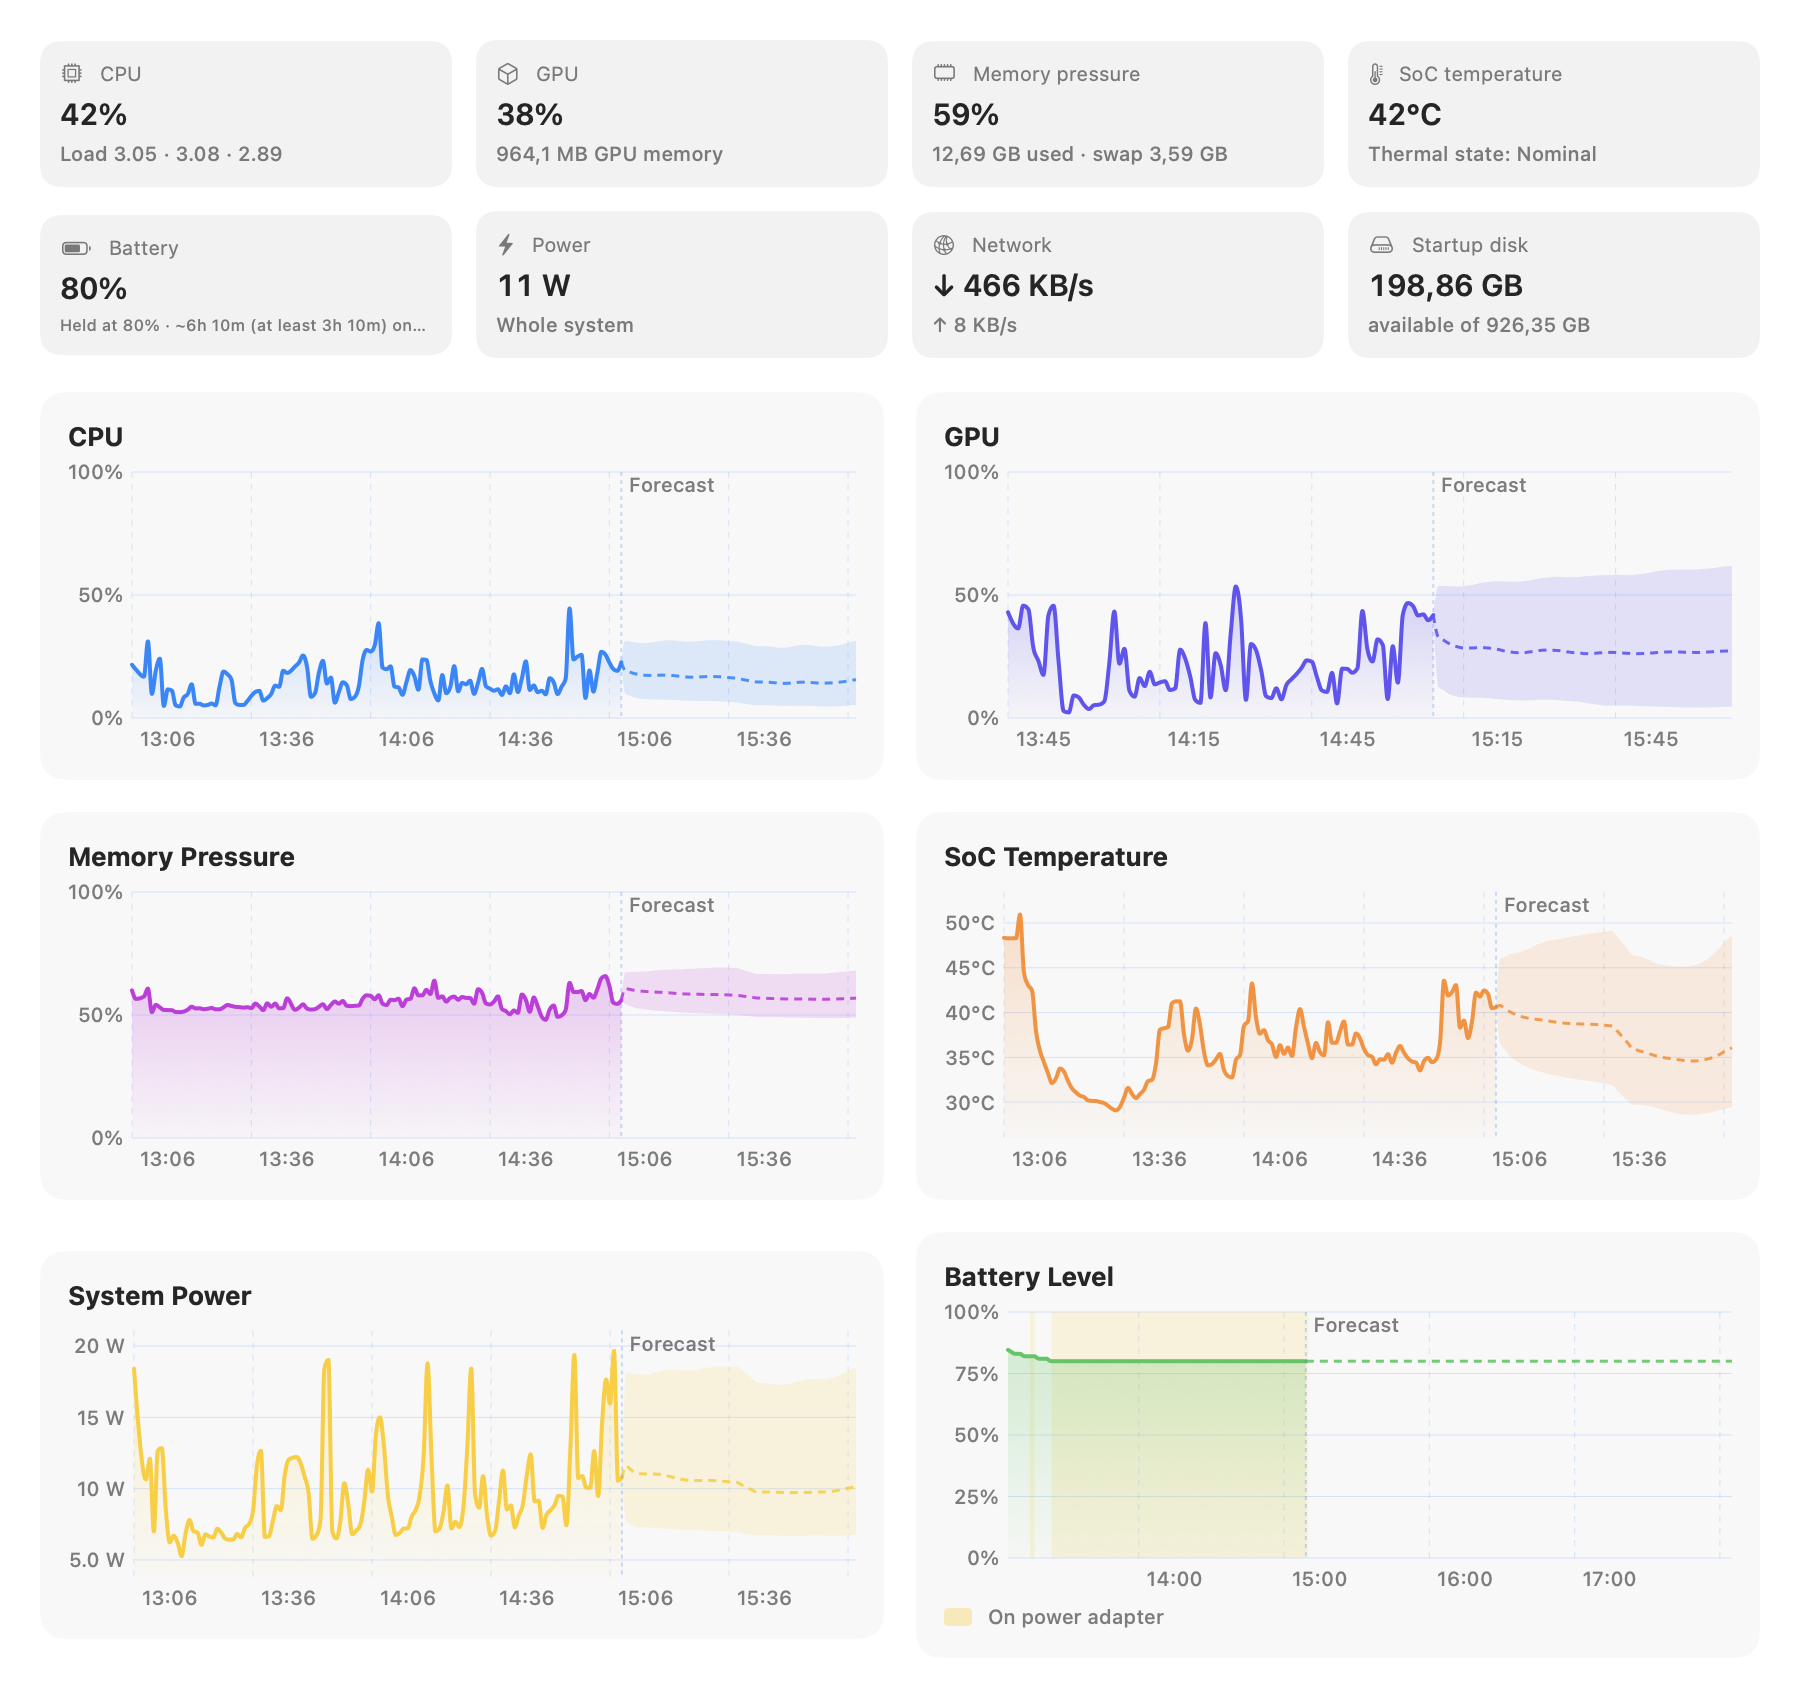
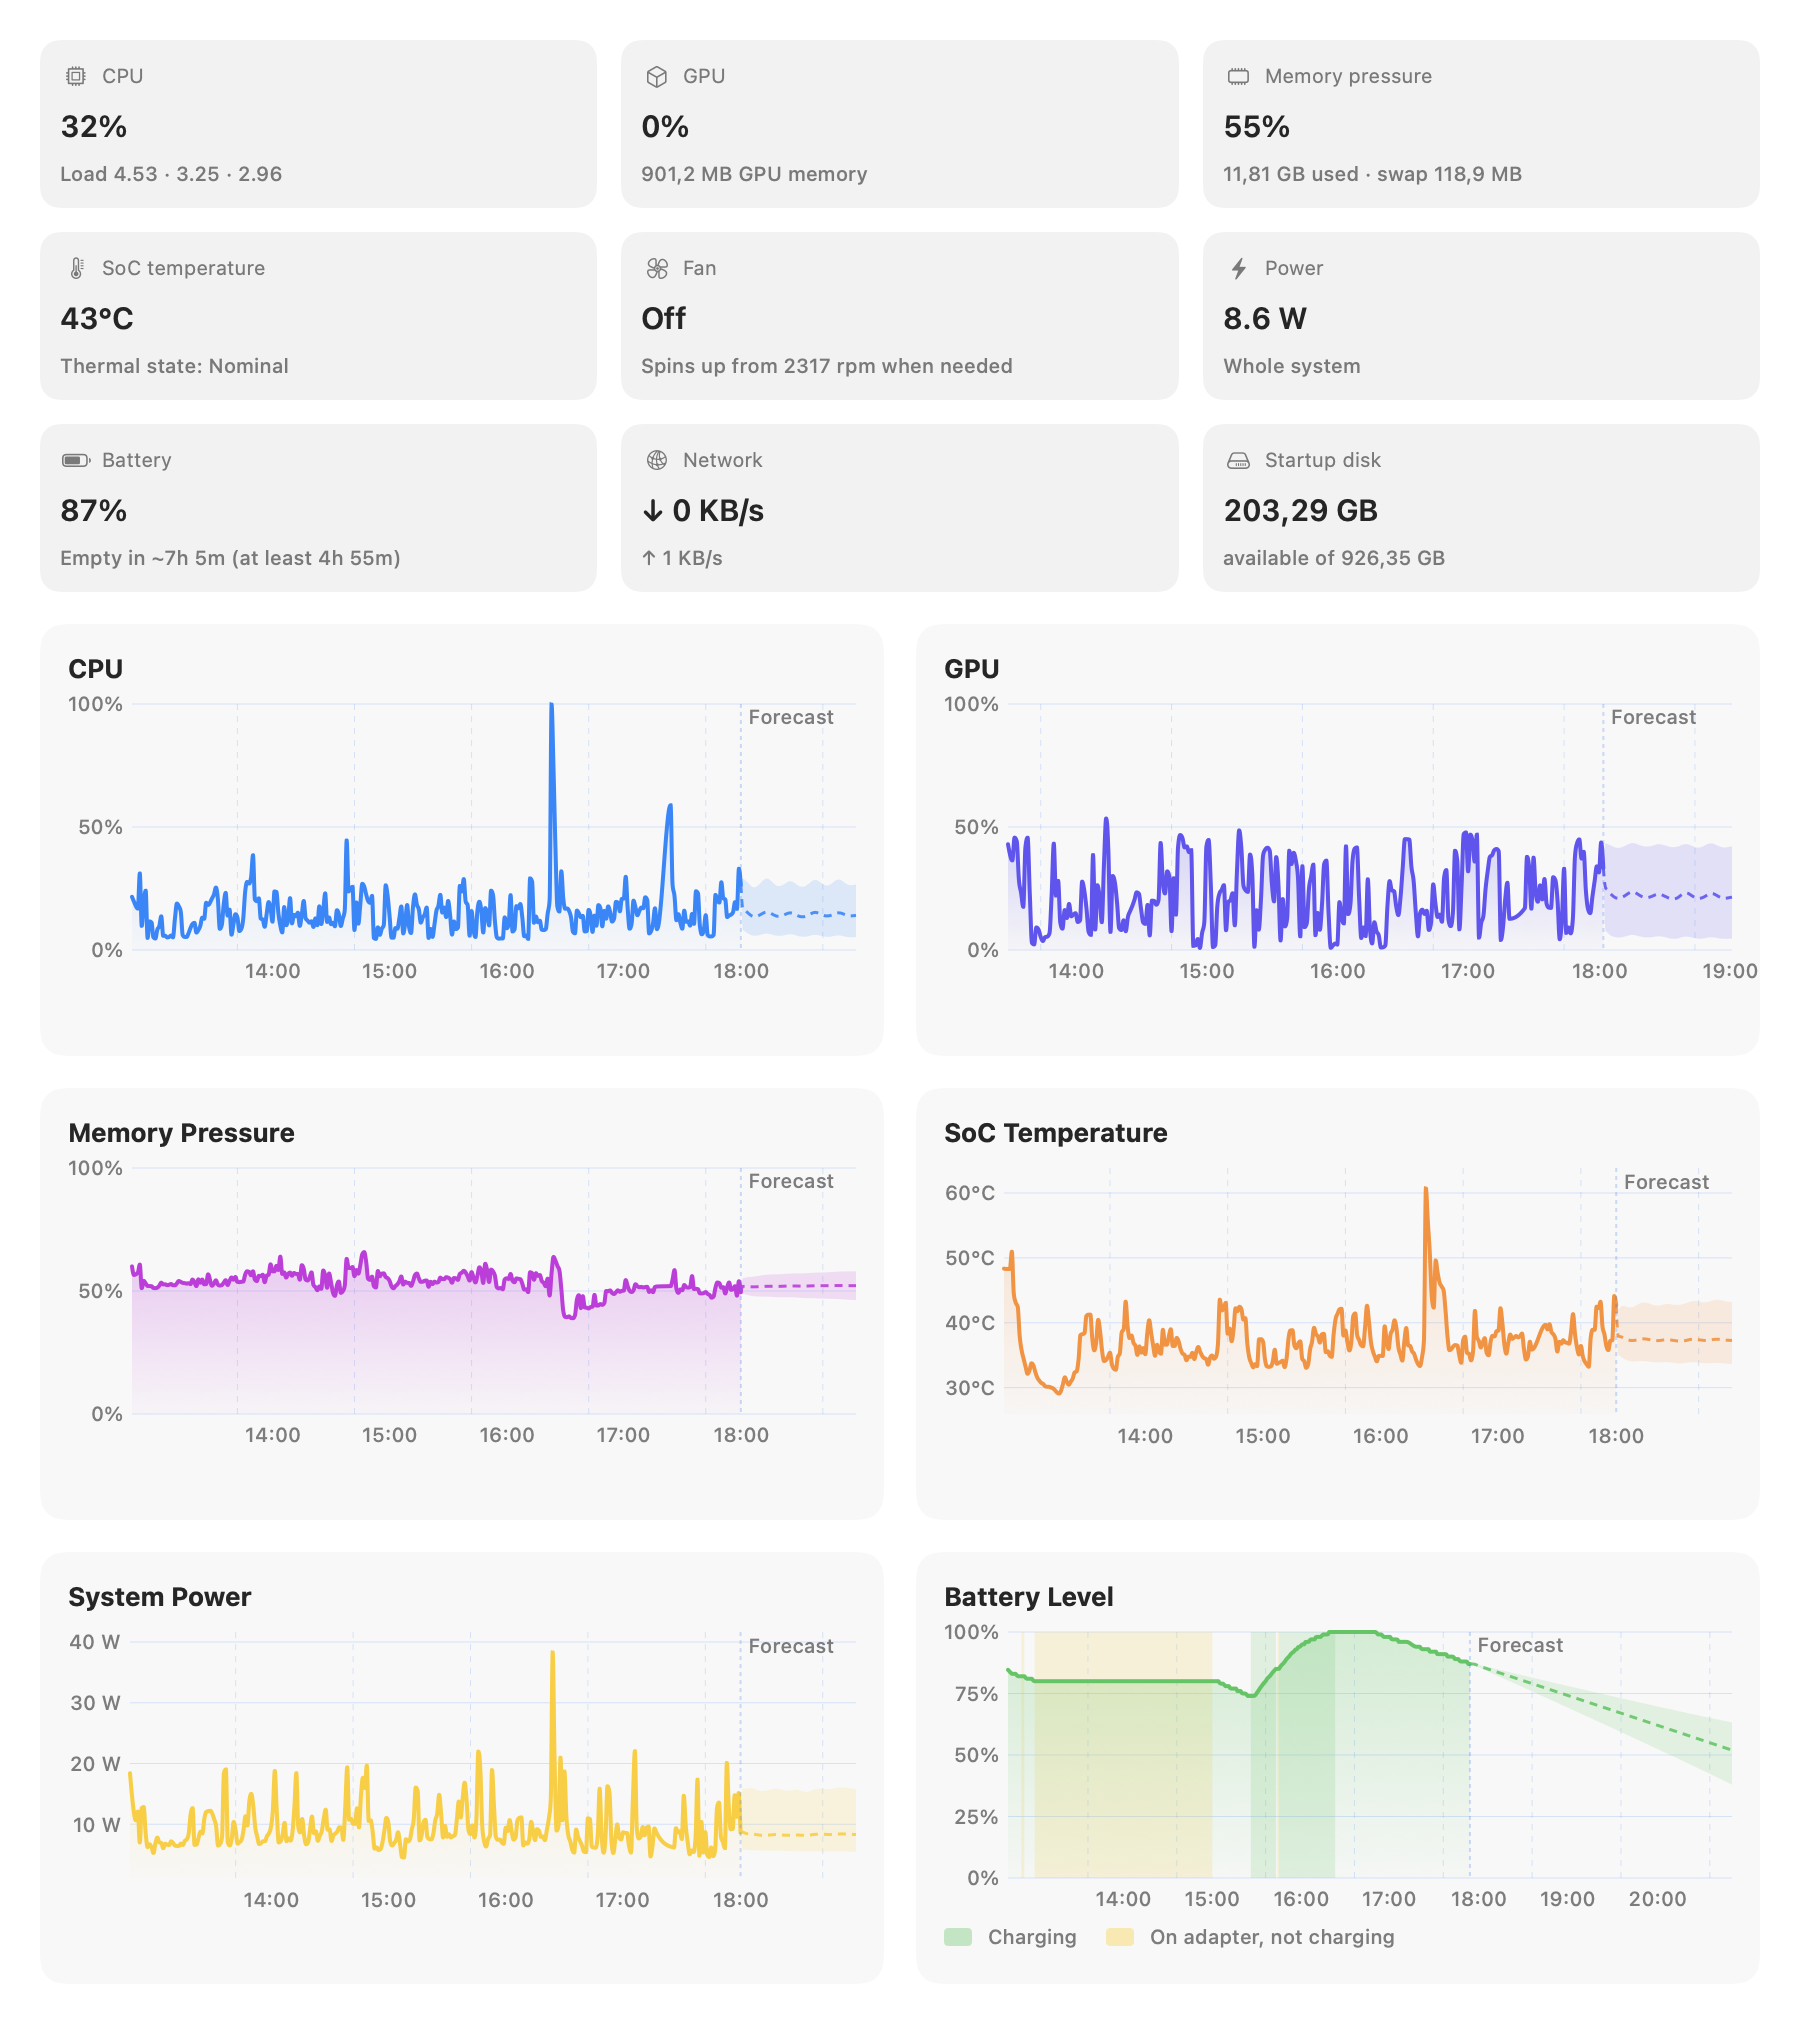
Overview: fan tile in a symmetric 3x3 grid
- Overview tiles are now nine in three rows: compute (CPU, GPU, memory),
  heat and power (SoC temperature, fan, power), battery and I/O
- The fan tile shows speed and share of maximum, or how it spins up when off;
  fanless Macs get a 'Passively cooled' tile so the grid stays complete
- Debug snapshots render in light mode by default (-TempraSnapshotAppearance dark)
- README screenshots refreshed

diff --git a/Tempra/UI/Dashboard/DashboardView.swift b/Tempra/UI/Dashboard/DashboardView.swift
@@ -97,7 +97,8 @@ struct OverviewSection: View {
     var body: some View {
         let s = monitor.latest
         VStack(alignment: .leading, spacing: 16) {
-            LazyVGrid(columns: Array(repeating: GridItem(.flexible(), spacing: 12), count: 4), spacing: 12) {
+            // Nine tiles in a 3 × 3 grid: compute, thermals and power, then battery and I/O.
+            LazyVGrid(columns: Array(repeating: GridItem(.flexible(), spacing: 12), count: 3), spacing: 12) {
                 StatTile(title: "CPU", systemImage: "cpu", value: Metric.cpu.format(s.cpuTotal),
                          detail: String(format: "Load %.2f · %.2f · %.2f", s.loadAverage.0, s.loadAverage.1, s.loadAverage.2),
                          state: monitor.health(.cpu))
@@ -107,14 +108,14 @@ struct OverviewSection: View {
                          detail: "\(Format.bytes(s.memUsed)) used · swap \(Format.bytes(s.swapUsed))",
                          state: monitor.health(.memory))
                 StatTile(title: "SoC temperature", systemImage: "thermometer.medium", value: s.socTemp.map(Metric.socTemp.format) ?? "—",
-                         detail: [s.fanText, "thermal \(s.thermalStateText.lowercased())"].compactMap { $0 }.joined(separator: " · "),
-                         state: monitor.health(.thermal))
+                         detail: "Thermal state: \(s.thermalStateText)", state: monitor.health(.thermal))
+                fanTile(s)
+                StatTile(title: "Power", systemImage: "bolt.fill", value: s.battery?.systemPower.map(Metric.systemPower.format) ?? "—",
+                         detail: "Whole system", state: monitor.health(.power))
                 StatTile(title: "Battery", systemImage: "battery.75percent",
                          value: s.battery.map { Metric.batteryPercent.format($0.percent) } ?? "—",
                          detail: forecaster.batteryForecastText ?? s.batteryStateText,
                          state: monitor.health(.battery))
-                StatTile(title: "Power", systemImage: "bolt.fill", value: s.battery?.systemPower.map(Metric.systemPower.format) ?? "—",
-                         detail: "Whole system", state: monitor.health(.power))
                 StatTile(title: "Network", systemImage: "network", value: "↓ " + Metric.netIn.format(s.netIn),
                          detail: "↑ " + Metric.netOut.format(s.netOut))
                 StatTile(title: "Startup disk", systemImage: "internaldrive", value: Format.bytes(Double(s.diskFree)),
@@ -130,6 +131,22 @@ struct OverviewSection: View {
                     }
                 }
             }
+        }
+    }
+}
+
+extension OverviewSection {
+    /// Fan speed, or a note on fanless Macs so the grid keeps its nine tiles.
+    @ViewBuilder
+    private func fanTile(_ s: Snapshot) -> some View {
+        if let fan = s.fans.first {
+            let rpm = s.fanRPM ?? 0
+            StatTile(title: s.fans.count > 1 ? "Fans" : "Fan", systemImage: "fan",
+                     value: rpm > 0 ? Metric.fanRPM.format(rpm) : "Off",
+                     detail: rpm > 0 ? String(format: "%.0f%% of max %.0f rpm", fan.maxRPM > 0 ? rpm / fan.maxRPM * 100 : 0, fan.maxRPM)
+                                     : String(format: "Spins up from %.0f rpm when needed", fan.minRPM))
+        } else {
+            StatTile(title: "Fan", systemImage: "fan", value: "None", detail: "Passively cooled")
         }
     }
 }

diff --git a/Tempra/App/DebugSnapshots.swift b/Tempra/App/DebugSnapshots.swift
@@ -1,7 +1,8 @@
 #if DEBUG
 import SwiftUI
 
-/// Debug-only: `Tempra -TempraSnapshotDir /path` renders the main views into PNG files
+/// Debug-only: `Tempra -TempraSnapshotDir /path [-TempraSnapshotRange 6h] [-TempraSnapshotAppearance dark]`
+/// renders the main views into PNG files
 /// (using the app's own windows, so no screen-recording permission is needed) and quits.
 @MainActor
 enum DebugSnapshots {
@@ -53,6 +54,10 @@ enum DebugSnapshots {
         let window = NSWindow(contentRect: NSRect(x: 0, y: 0, width: width, height: height ?? max(size.height, 200)),
                               styleMask: [.titled], backing: .buffered, defer: false)
         window.contentView = hosting
+        // Light by default so renders are readable on any background; -TempraSnapshotAppearance dark for dark mode.
+        window.appearance = NSAppearance(named: UserDefaults.standard.string(forKey: "TempraSnapshotAppearance") == "dark"
+                                         ? .darkAqua : .aqua)
+        window.backgroundColor = .windowBackgroundColor
         window.setFrameOrigin(NSPoint(x: -3000, y: 0))
         window.orderFrontRegardless()
         return window
